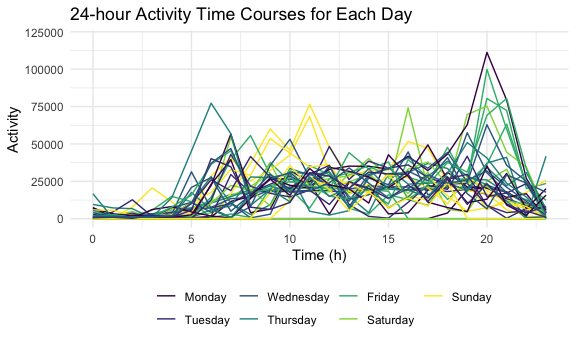
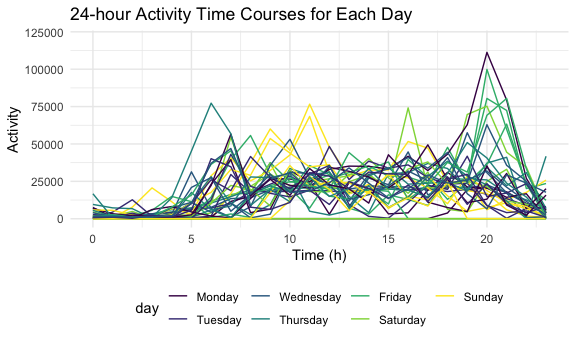
Change structure

Changed region(s): [[0.2188, 0.8406, 0.75, 0.9565], [0.75, 0.8406, 0.875, 0.8986]]

diff --git a/p8105_hw3_yf2563.md b/p8105_hw3_yf2563.md
@@ -58,8 +58,7 @@ codes.
 
 **Questions:**
 
-**1. How many aisles are there, and which aisles are the most items
-ordered from?**
+#### 1.1. How many aisles are there, and which aisles are the most items ordered from?
 
 ``` r
 instacart %>% 
@@ -85,7 +84,7 @@ instacart %>%
 There are 134 aisles, and fresh vegetables is the most items ordered
 from
 
-**2. Make a plot that shows the number of items ordered in each aisle**
+#### 1.2. Make a plot that shows the number of items ordered in each aisle
 
   - limiting this to aisles with more than 10000 items ordered.
   - Arrange aisles sensibly, and organize your plot so others can read
@@ -111,10 +110,7 @@ instacart %>%
 
 <img src="p8105_hw3_yf2563_files/figure-gfm/unnamed-chunk-3-1.png" width="90%" />
 
-**3. Make a table showing the three most popular items in each of the
-aisles “baking ingredients”, “dog food care”, and “packaged vegetables
-fruits”. Include the number of times each item is ordered in your
-table.**
+#### 1.3. Make a table showing the three most popular items in each of the aisles “baking ingredients”, “dog food care”, and “packaged vegetables fruits”. Include the number of times each item is ordered in your table.
 
 ``` r
 instacart %>% 
@@ -163,14 +159,16 @@ instacart %>%
 
 ## Problem 2
 
-**Description of the dataset** This problem uses five weeks of
-accelerometer data collected on a 63 year-old male with BMI 25, who was
-admitted to the Advanced Cardiac Care Center of Columbia University
-Medical Center and diagnosed with congestive heart failure (CHF). In
-this spreadsheet, variables activity.\* are the activity counts for each
-minute of a 24-hour day starting at midnight.
+#### 2.0. Description of the dataset
 
-**1. Load, tidy, and otherwise wrangle the data.**
+This problem uses five weeks of accelerometer data collected on a 63
+year-old male with BMI 25, who was admitted to the Advanced Cardiac Care
+Center of Columbia University Medical Center and diagnosed with
+congestive heart failure (CHF). In this spreadsheet, variables
+activity.\* are the activity counts for each minute of a 24-hour day
+starting at midnight.
+
+#### 2.1. Load, tidy, and otherwise wrangle the data.
 
   - include all originally observed variables and values; have useful
     variable names;
@@ -261,8 +259,10 @@ weekend variable. `minute` includes numbers ranging from 1 to 1440,
 which represents the original activity\_1:activity\_1440 (each minute of
 a 24-hour day starting at midnight).
 
-**2. Make a table** Traditional analyses of accelerometer data focus on
-the total activity over the day.
+#### 2.2. Make a table
+
+Traditional analyses of accelerometer data focus on the total activity
+over the day.
 
   - aggregate accross minutes to create a total activity variable for
     each day
@@ -303,8 +303,10 @@ accel_table
 Trends: There is no obvious trend presents in the table. Besides, Monday
 of week 1 and Saturday of Week 4 and 5 have obvious lower value.
 
-**3. Make a plot** Accelerometer data allows the inspection activity
-over the course of the day.
+#### 2.3. Make a plot
+
+Accelerometer data allows the inspection activity over the course of the
+day.
 
   - Make a single-panel plot that shows the 24-hour activity time
     courses for each day
@@ -354,8 +356,7 @@ accel_plot_data%>%
   labs(title = "24-hour Activity Time Courses for Each Day") + 
   xlab("Time (h)") + 
   ylab("Activity") +
-  ylim(0,120000)+
-  theme(legend.title = element_blank())
+  ylim(0,120000)
 ```
 
 <img src="p8105_hw3_yf2563_files/figure-gfm/unnamed-chunk-9-1.png" width="90%" />
@@ -364,3 +365,56 @@ Describe: In the plot of 24-hour activity time courses, during 00:00 to
 05:00, the activity in all days are relatively low. After 05:00, the
 data fluctuates. At around 11:00, the activity in Sundays is relatively
 higher.
+
+## Problem 3
+
+#### 3.1. Load data
+
+  - write a short description of the dataset
+  - noting the size and structure of the data
+  - describing some key variables
+  - indicating the extent to which missing data is an issue.
+
+<!-- end list -->
+
+``` r
+data("ny_noaa")
+ny_noaa
+```
+
+    ## # A tibble: 2,595,176 x 7
+    ##    id          date        prcp  snow  snwd tmax  tmin 
+    ##    <chr>       <date>     <int> <int> <int> <chr> <chr>
+    ##  1 US1NYAB0001 2007-11-01    NA    NA    NA <NA>  <NA> 
+    ##  2 US1NYAB0001 2007-11-02    NA    NA    NA <NA>  <NA> 
+    ##  3 US1NYAB0001 2007-11-03    NA    NA    NA <NA>  <NA> 
+    ##  4 US1NYAB0001 2007-11-04    NA    NA    NA <NA>  <NA> 
+    ##  5 US1NYAB0001 2007-11-05    NA    NA    NA <NA>  <NA> 
+    ##  6 US1NYAB0001 2007-11-06    NA    NA    NA <NA>  <NA> 
+    ##  7 US1NYAB0001 2007-11-07    NA    NA    NA <NA>  <NA> 
+    ##  8 US1NYAB0001 2007-11-08    NA    NA    NA <NA>  <NA> 
+    ##  9 US1NYAB0001 2007-11-09    NA    NA    NA <NA>  <NA> 
+    ## 10 US1NYAB0001 2007-11-10    NA    NA    NA <NA>  <NA> 
+    ## # … with 2,595,166 more rows
+
+#### 3.2. data cleaning.
+
+  - Create separate variables for year, month, and day.
+  - Ensure observations for temperature, precipitation, and snowfall are
+    given in reasonable units.
+  - For snowfall, what are the most commonly observed values? Why?
+
+#### 3.3. Make a plot
+
+  - Make a two-panel plot showing the average max temperature in January
+    and in July in each station across years.
+  - Is there any observable / interpretable structure? Any outliers?
+
+#### 3.4. Make a plot
+
+  - 1)  tmax vs tmin for the full dataset (not scatterplot)
+
+  - 2)  make a plot showing the distribution of snowfall values greater
+        than 0 and less than 100 separately by year.
+
+  - commenting on the results
